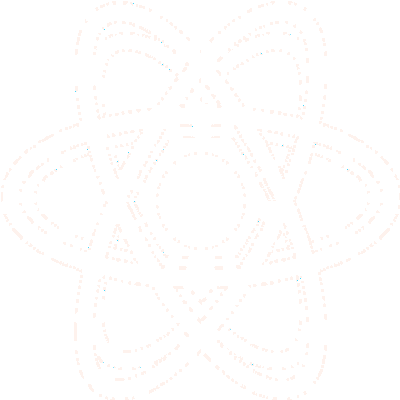
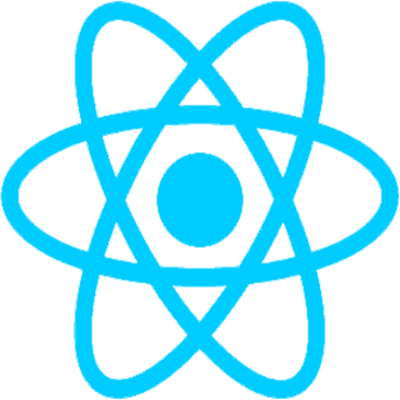
Imported images to string array and used this to populate src on skill tabs. Replaced several images due to graphical errors.

diff --git a/src/assets/Arrays/SkillArrays.tsx b/src/assets/Arrays/SkillArrays.tsx
@@ -1,0 +1,33 @@
+import GitIcon from "/git-icon.png";
+import HTML5Icon from "/html5-icon.png";
+import CSS3Icon from "/css3-icon.png";
+import JavaScriptIcon from "/javascript-icon.png";
+import SCSSIcon from "/scss-icon.png";
+import BEMIcon from "/bem-icon.png";
+import ReactIcon from "/react-icon.png";
+import JavaIcon from "/java-icon.png";
+import SpringBootIcon from "/springboot-icon.png";
+
+export const skillTabImgs: string[] = [
+  GitIcon,
+  HTML5Icon,
+  CSS3Icon,
+  JavaScriptIcon,
+  SCSSIcon,
+  BEMIcon,
+  ReactIcon,
+  JavaIcon,
+  SpringBootIcon,
+];
+
+export const skillTabLabels: string[] = [
+  "Git",
+  "HTML5",
+  "CSS3",
+  "JavaScript",
+  "SCSS",
+  "BEM",
+  "React",
+  "Java",
+  "Spring Boot",
+];

diff --git a/src/App.tsx b/src/App.tsx
@@ -3,6 +3,7 @@ import IntroSection from "./Components/IntroSection/IntroSection";
 import { homeIntroDescription } from "./assets/TextBlocks/TextBlocks";
 import Navbar from "./Components/Navbar/Navbar";
 import AboutMe from "./Components/AboutMe/AboutMe";
+import SkillsSection from "./Components/SkillsSection/SkillsSection";
 
 const App = () => {
   return (
@@ -13,6 +14,7 @@ const App = () => {
         content={homeIntroDescription}
       />
       <AboutMe />
+      <SkillsSection />
     </div>
   );
 };

diff --git a/src/Components/SkillsSection/SkillsSection.tsx b/src/Components/SkillsSection/SkillsSection.tsx
@@ -1,11 +1,14 @@
 import SkillTab from "../SkillTab/SkillTab";
+import { skillTabImgs, skillTabLabels } from "../../assets/Arrays/SkillArrays";
 import "./SkillsSection.scss";
 
 const SkillsSection = () => {
   const handleSetIcons = () => {
     const icons = [];
     for (let i: number = 0; i < 9; i++) {
-      icons.push(<SkillTab />);
+      icons.push(
+        <SkillTab imgSource={skillTabImgs[i]} label={skillTabLabels[i]} />
+      );
     }
     return icons;
   };

diff --git a/src/Components/SkillTab/SkillTab.tsx b/src/Components/SkillTab/SkillTab.tsx
@@ -1,10 +1,15 @@
 import "./SkillTab.scss";
 
-const SkillTab = () => {
+type SkillTabProps = {
+  imgSource: string;
+  label: string;
+};
+
+const SkillTab = ({ imgSource, label }: SkillTabProps) => {
   return (
     <div>
-      <img src="" alt="" />
-      <label></label>
+      <img src={imgSource} alt={`${label} icon`} />
+      <label>{label}</label>
     </div>
   );
 };
